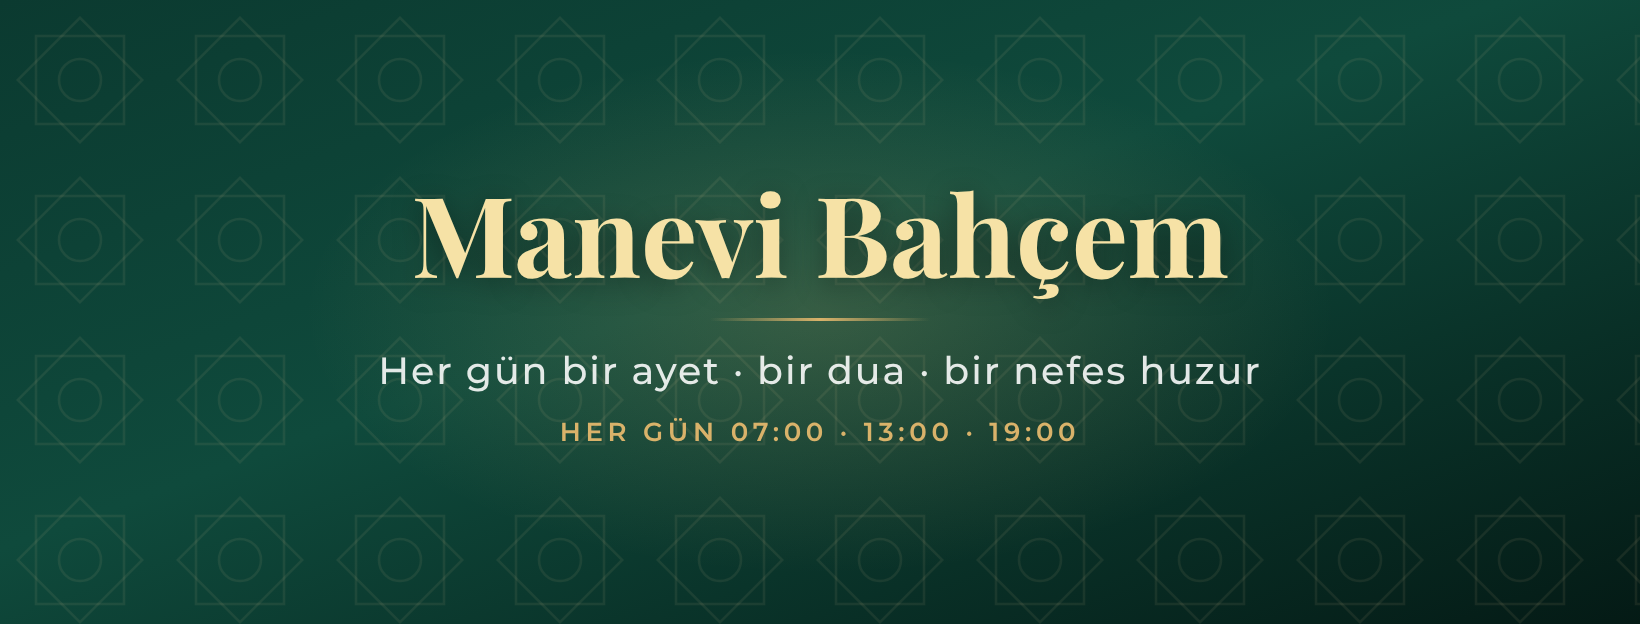
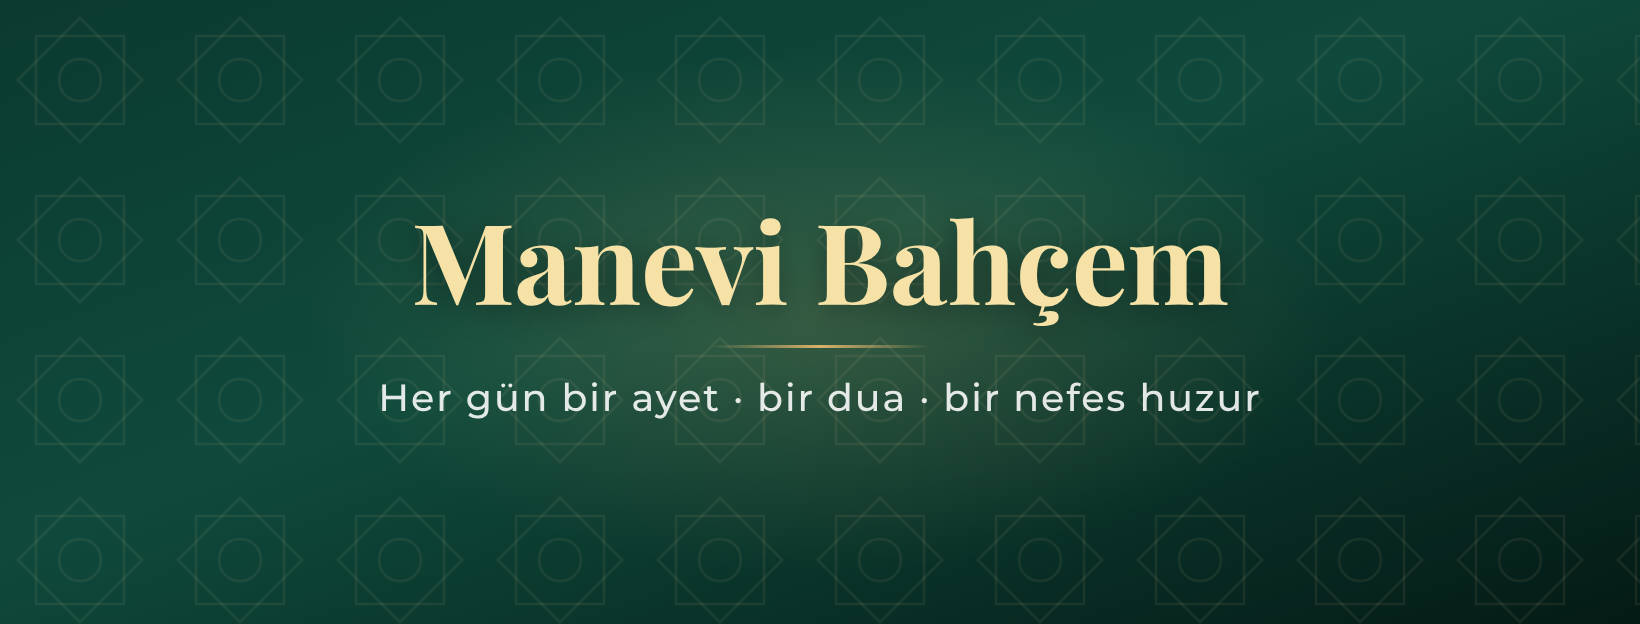
Facebook kapağından yayın saatleri kaldırıldı (#25)
Claude-Session: https://claude.ai/code/session_01SexfwdCP1zGFvnXN9vs9ka

Changed region(s): [[0.2488, 0.3045, 0.7463, 0.5176], [0.2177, 0.5481, 0.7774, 0.7308]]

diff --git a/templates/fb-kapak.html b/templates/fb-kapak.html
@@ -21,7 +21,6 @@
   .ad { font: 700 112px/1 "Playfair"; color: #f6e2a6; text-shadow: 0 6px 30px rgba(0,0,0,.4); }
   .cizgi { width: 220px; height: 3px; margin: 30px auto 26px; background: linear-gradient(90deg, transparent, #d9b26a, transparent); }
   .slogan { font: 500 38px "Montserrat"; color: rgba(255,255,255,.88); letter-spacing: .05em; }
-  .saat { margin-top: 22px; font: 600 26px "Montserrat"; color: #d9b26a; letter-spacing: .18em; }
 </style>
 </head>
 <body>
@@ -41,7 +40,6 @@
   <div class="ad">Manevi Bahçem</div>
   <div class="cizgi"></div>
   <div class="slogan">Her gün bir ayet · bir dua · bir nefes huzur</div>
-  <div class="saat">HER GÜN 07:00 · 13:00 · 19:00</div>
 </div>
 </body>
 </html>
